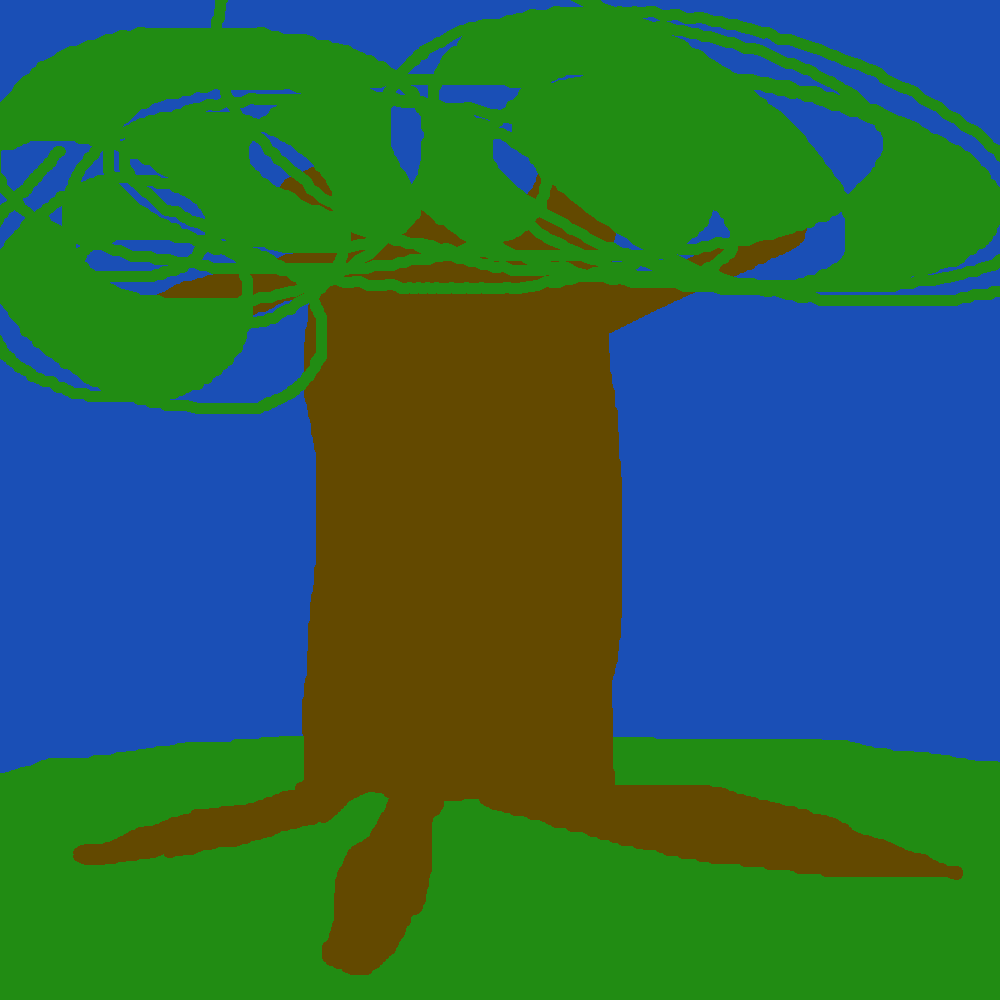
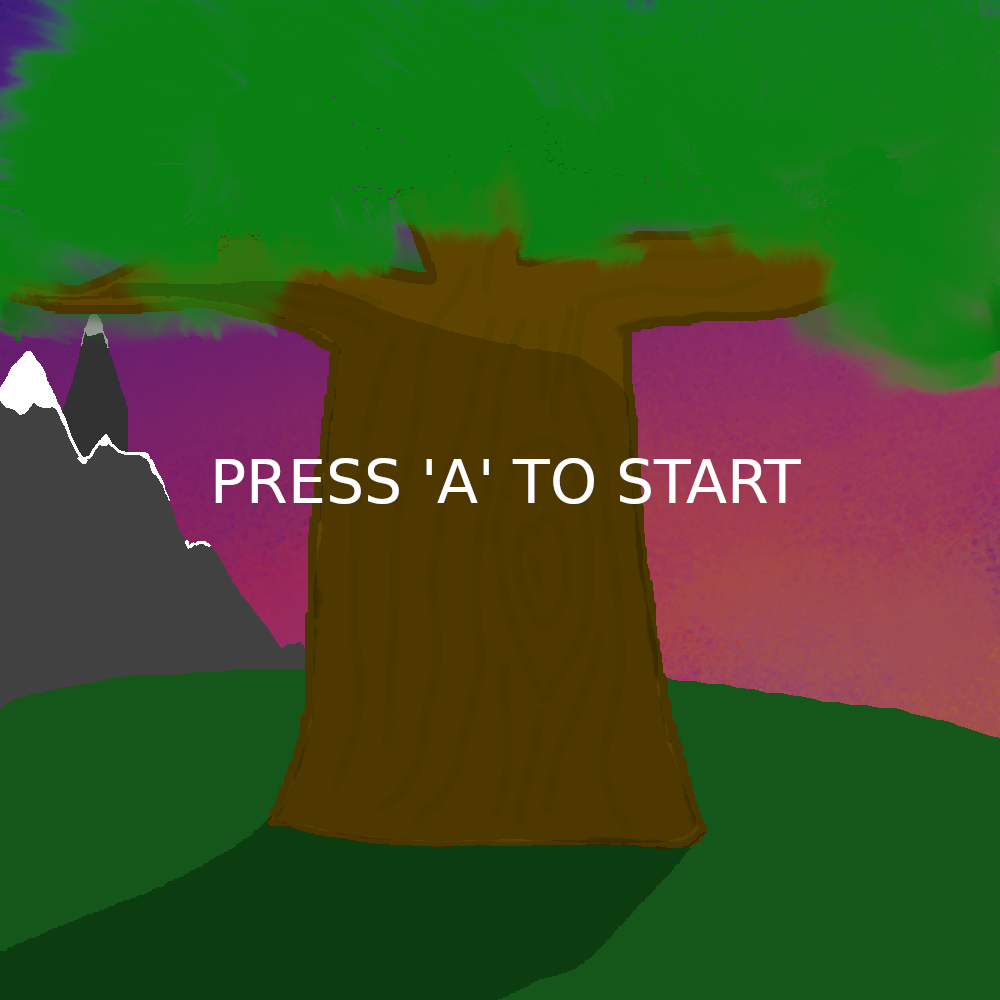
title good

diff --git a/scripts/main.js b/scripts/main.js
@@ -7,8 +7,8 @@ import DigDownRoot from "./DigDownRoot.js";
   window.onload = function() {
     const canvas = document.getElementById("canvas");
     let ctx = canvas.getContext("2d");
-    ctx.canvas.width = 600;
-    ctx.canvas.height = 600;
+    ctx.canvas.width = window.innerHeight-20;
+    ctx.canvas.height = window.innerHeight-20;
     ctx.fillStyle = "grey";
     ctx.fillRect(0,0, ctx.canvas.width, ctx.canvas.height); 
      game.ctx = ctx;

diff --git a/scripts/DigDownRoot.js b/scripts/DigDownRoot.js
@@ -1,6 +1,7 @@
 import GameObject from "./GameObject.js";
 import Root from "./Root.js";
 import Background from "./Background.js";
+import Title from "./Title.js";
 
 export default class DigDownRoot {
 
@@ -59,6 +60,7 @@ export default class DigDownRoot {
 
       
         this.addGameObject(new Background(0,0));
+        this.addGameObject(new Title(0,0));
         this.addGameObject(new Root(50,50));
 
         this.gameRunning=true;

diff --git a/scripts/Title.js b/scripts/Title.js
@@ -1,0 +1,12 @@
+import GameObject from "./GameObject.js";
+import Animation from "./Animation.js";
+export default class Title extends GameObject {
+    constructor(x, y){
+        super(x, y);
+        this.animation = new Animation("./assets/images/title1.png")
+    }
+
+    render(ctx){
+        this.animation.render(ctx,this.x,this.y,ctx.canvas.width,ctx.canvas.height);
+    }
+}

diff --git a/index.html b/index.html
@@ -5,6 +5,7 @@
     <meta http-equiv="X-UA-Compatible" content="IE=edge">
     <meta name="viewport" content="width=device-width, initial-scale=1.0">
     <title>RotoRooster</title>
+    <link rel="stylesheet" href="styles.css">
 
     <script src="scripts/main.js" type="module"></script>
 </head>

diff --git a/styles.css b/styles.css
@@ -1,0 +1,19 @@
+*{
+    margin:0;
+    padding:0;
+}
+
+body{
+    display: flex;
+    align-items: center;
+    justify-content: center;
+    background-color: rgb(24, 9, 57);
+    height: 100vh;
+}
+canvas {
+    margin: 10px;
+}
+
+p {
+    display: none;
+}
